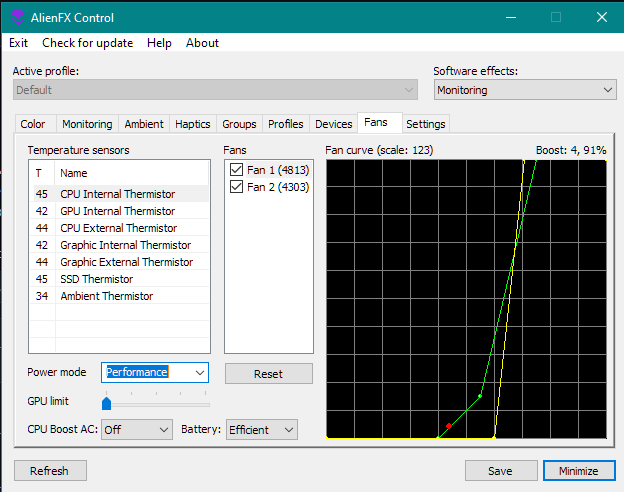
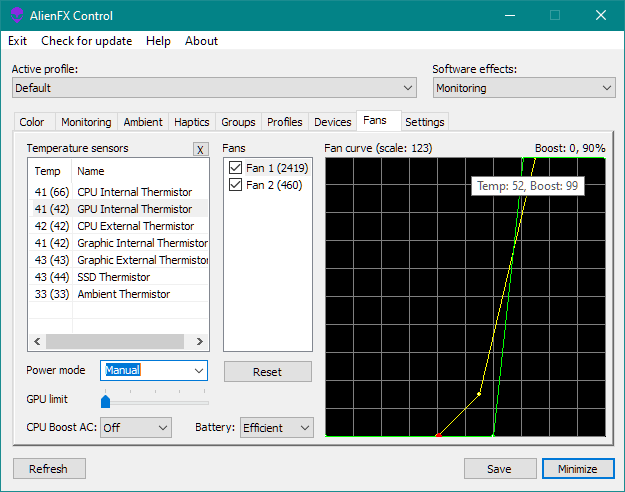
"Maximal temperatures" feature

Changed region(s): [[0.0, 0.0, 1.0, 1.0]]

diff --git a/alienfan-tools/alienfan-gui/alienfan-gui.cpp b/alienfan-tools/alienfan-gui/alienfan-gui.cpp
@@ -39,7 +39,7 @@ UINT newTaskBar = RegisterWindowMessage(TEXT("TaskbarCreated"));
 HWND toolTip = NULL;
 HWND fanWindow = NULL;
 
-int pLid = -1;
+int pLid = -1, maxBoost = 100;
 
 GUID* sch_guid, perfset;
 
@@ -71,11 +71,14 @@ int APIENTRY wWinMain(_In_ HINSTANCE hInstance,
 
     if (acpi->IsActivated() && acpi->Probe()) {
         fan_conf->SetBoosts(acpi);
+        
         // Perform application initialization:
         HWND mDlg;
         if (!(mDlg = InitInstance(hInstance, fan_conf->startMinimized ? SW_HIDE : SW_NORMAL ))) {
             return FALSE;
         }
+
+        mon->dlg = mDlg;
 
         //power mode hotkeys
         for (int i = 0; i < 6; i++)
@@ -86,8 +89,6 @@ int APIENTRY wWinMain(_In_ HINSTANCE hInstance,
 
         //if (fan_conf->lastProf->GPUPower >= 0)
         //    acpi->SetGPU(fan_conf->lastProf->GPUPower);
-
-        mon = new MonHelper(mDlg, fanWindow, fan_conf, acpi);
 
         HACCEL hAccelTable = LoadAccelerators(hInstance, MAKEINTRESOURCE(IDC_MAIN_ACC));
 
@@ -244,7 +245,7 @@ void DrawFan(int oper = 0, int xx=-1, int yy=-1)
             mark.x = acpi->GetTempValue(fan_conf->lastSelectedSensor) * (clirect.right - clirect.left) / 100 + clirect.left;
             mark.y = (100 - acpi->GetFanValue(fan_conf->lastSelectedFan)) * (clirect.bottom - clirect.top) / 100 + clirect.top;
             Ellipse(hdc, mark.x - 3, mark.y - 3, mark.x + 3, mark.y + 3);
-            string rpmText = "Fan curve (boost: " + to_string(acpi->GetFanValue(fan_conf->lastSelectedFan)) + 
+            string rpmText = "Fan curve (scale: " + to_string(maxBoost) + ", boost: " + to_string(acpi->GetFanValue(fan_conf->lastSelectedFan)) + 
                 ", " + to_string((percent = acpi->GetFanPercent(fan_conf->lastSelectedFan)) > 100 ? 0 : percent < 0 ? 0 : percent) +
                 "%)";
             SetWindowText(fanWindow, rpmText.c_str());
@@ -285,6 +286,7 @@ void ReloadFanView(HWND hDlg, int cID) {
         if (i == cID) {
             lItem.mask |= LVIF_STATE;
             lItem.state = LVIS_SELECTED;
+            maxBoost = fan_conf->boosts[fan_conf->lastSelectedFan].maxBoost;
             DrawFan();
         }
         ListView_InsertItem(list, &lItem);
@@ -322,19 +324,21 @@ void ReloadTempView(HWND hDlg, int cID) {
     HWND list = GetDlgItem(hDlg, IDC_TEMP_LIST);
     ListView_DeleteAllItems(list);
     ListView_SetExtendedListViewStyle(list, LVS_EX_GRIDLINES | LVS_EX_FULLROWSELECT);
-    LVCOLUMNA lCol;
-    lCol.mask = LVCF_WIDTH | LVCF_TEXT | LVCF_SUBITEM;
-    lCol.cx = 100;
-    lCol.iSubItem = 0;
-    lCol.pszText = (LPSTR) "T";
-    //ListView_DeleteColumn(list, 0);
-    ListView_InsertColumn(list, 0, &lCol);
-    lCol.pszText = (LPSTR) "Name";
-    lCol.iSubItem = 1;
-    ListView_InsertColumn(list, 1, &lCol);
+    if (!ListView_GetColumnWidth(list, 1)) {
+        LVCOLUMNA lCol;
+        lCol.mask = LVCF_WIDTH | LVCF_TEXT | LVCF_SUBITEM;
+        lCol.cx = 100;
+        lCol.iSubItem = 0;
+        lCol.pszText = (LPSTR)"Temp";
+        //ListView_DeleteColumn(list, 0);
+        ListView_InsertColumn(list, 0, &lCol);
+        lCol.pszText = (LPSTR)"Name";
+        lCol.iSubItem = 1;
+        ListView_InsertColumn(list, 1, &lCol);
+    }
     for (int i = 0; i < acpi->HowManySensors(); i++) {
         LVITEMA lItem;
-        string name = to_string(acpi->GetTempValue(i));
+        string name = to_string(acpi->GetTempValue(i)) + " (" + to_string(mon->maxTemps[i]) + ")";
         lItem.mask = LVIF_TEXT | LVIF_PARAM;
         lItem.iItem = i;
         lItem.iImage = 0;
@@ -448,10 +452,6 @@ LRESULT CALLBACK WndProc(HWND hDlg, UINT message, WPARAM wParam, LPARAM lParam)
         ComboBox_SetCurSel(boost_ac, acMode);
         ComboBox_SetCurSel(boost_dc, dcMode);
 
-        ReloadPowerList(hDlg, fan_conf->lastProf->powerStage);
-        ReloadTempView(hDlg, fan_conf->lastSelectedSensor);
-        ReloadFanView(hDlg, fan_conf->lastSelectedFan);
-
         // So open fan control window...
         RECT cDlg;
         GetWindowRect(hDlg, &cDlg);
@@ -466,6 +466,12 @@ LRESULT CALLBACK WndProc(HWND hDlg, UINT message, WPARAM wParam, LPARAM lParam)
         } else {
             ShowWindow(fanWindow, SW_SHOWNA);
         }
+
+        mon = new MonHelper(hDlg, fanWindow, fan_conf, acpi);
+
+        ReloadPowerList(hDlg, fan_conf->lastProf->powerStage);
+        ReloadTempView(hDlg, fan_conf->lastSelectedSensor);
+        ReloadFanView(hDlg, fan_conf->lastSelectedFan);
 
         CheckMenuItem(GetMenu(hDlg), IDM_SETTINGS_STARTWITHWINDOWS, fan_conf->startWithWindows ? MF_CHECKED : MF_UNCHECKED);
         CheckMenuItem(GetMenu(hDlg), IDM_SETTINGS_STARTMINIMIZED, fan_conf->startMinimized ? MF_CHECKED : MF_UNCHECKED);
@@ -567,6 +573,12 @@ LRESULT CALLBACK WndProc(HWND hDlg, UINT message, WPARAM wParam, LPARAM lParam)
                 }
             }
         } break;
+        case IDC_MAX_RESET:
+        {
+            for (int i = 0; i < acpi->HowManySensors(); i++)
+                mon->maxTemps[i] = acpi->GetTempValue(i);
+            ReloadTempView(hDlg, fan_conf->lastSelectedSensor);
+        } break;
         default:
             return DefWindowProc(hDlg, message, wParam, lParam);
         }
@@ -629,6 +641,7 @@ LRESULT CALLBACK WndProc(HWND hDlg, UINT message, WPARAM wParam, LPARAM lParam)
                     if (lPoint->iItem != -1) {
                         // Select other fan....
                         fan_conf->lastSelectedFan = lPoint->iItem;
+                        maxBoost = fan_conf->boosts[fan_conf->lastSelectedFan].maxBoost;
                         // Redraw fans
                         DrawFan();
                     }

diff --git a/alienfx-gui/FanDialog.cpp b/alienfx-gui/FanDialog.cpp
@@ -181,18 +181,20 @@ void ReloadTempView(HWND hDlg, int cID) {
     HWND list = GetDlgItem(hDlg, IDC_TEMP_LIST);
     ListView_DeleteAllItems(list);
     ListView_SetExtendedListViewStyle(list, LVS_EX_GRIDLINES | LVS_EX_FULLROWSELECT);
-    LVCOLUMNA lCol;
-    lCol.mask = LVCF_WIDTH | LVCF_TEXT | LVCF_SUBITEM;
-    lCol.cx = 100;
-    lCol.iSubItem = 0;
-    lCol.pszText = (LPSTR) "T";
-    ListView_InsertColumn(list, 0, &lCol);
-    lCol.pszText = (LPSTR) "Name";
-    lCol.iSubItem = 1;
-    ListView_InsertColumn(list, 1, &lCol);
+    if (!ListView_GetColumnWidth(list, 1)) {
+        LVCOLUMNA lCol;
+        lCol.mask = LVCF_WIDTH | LVCF_TEXT | LVCF_SUBITEM;
+        lCol.cx = 100;
+        lCol.iSubItem = 0;
+        lCol.pszText = (LPSTR)"Temp";
+        ListView_InsertColumn(list, 0, &lCol);
+        lCol.pszText = (LPSTR)"Name";
+        lCol.iSubItem = 1;
+        ListView_InsertColumn(list, 1, &lCol);
+    }
     for (int i = 0; i < acpi->HowManySensors(); i++) {
         LVITEMA lItem;
-        string name = to_string(acpi->GetTempValue(i));
+        string name = to_string(acpi->GetTempValue(i)) + " (" + to_string(eve->mon->maxTemps[i]) + ")";
         lItem.mask = LVIF_TEXT | LVIF_PARAM;
         lItem.iItem = i;
         lItem.iImage = 0;
@@ -337,6 +339,12 @@ BOOL CALLBACK TabFanDialog(HWND hDlg, UINT message, WPARAM wParam, LPARAM lParam
                     DrawFan();
                 }
             }
+        } break;
+        case IDC_MAX_RESET:
+        {
+            for (int i = 0; i < acpi->HowManySensors(); i++)
+                eve->mon->maxTemps[i] = acpi->GetTempValue(i);
+            ReloadTempView(hDlg, conf->fan_conf->lastSelectedSensor);
         } break;
         }
     } break;

diff --git a/alienfan-tools/alienfan-gui/MonHelper.cpp b/alienfan-tools/alienfan-gui/MonHelper.cpp
@@ -13,6 +13,12 @@ MonHelper::MonHelper(HWND cDlg, HWND fanDlg, ConfigHelper* config, AlienFan_SDK:
 	if (oldPower != conf->lastProf->powerStage)
 		acpi->SetPower(conf->lastProf->powerStage);
 	acpi->SetGPU(conf->lastProf->GPUPower);
+
+	maxTemps.resize(acpi->HowManySensors());
+	for (int i = 0; i < acpi->HowManySensors(); i++) {
+		maxTemps[i] = acpi->GetTempValue(i);
+	}
+
 	stopEvent = CreateEvent(NULL, false, false, NULL);
 	Start();
 }
@@ -66,11 +72,13 @@ DWORD WINAPI CMonProc(LPVOID param) {
 		// temps..
 		for (int i = 0; i < src->acpi->HowManySensors(); i++) {
 			int sValue = src->acpi->GetTempValue(i);
+			if (sValue > src->maxTemps[i])
+				src->maxTemps[i] = sValue;
 			if (sValue != src->senValues[i]) {
 				src->senValues[i] = sValue;
 				needUpdate = true;
 				if (visible && tempList) {
-					string name = to_string(sValue);
+					string name = to_string(sValue) + " (" + to_string(src->maxTemps[i]) + ")";
 					ListView_SetItemText(tempList, i, 0, (LPSTR) name.c_str());
 				}
 			}

diff --git a/alienfx-gui/FXHelper.cpp b/alienfx-gui/FXHelper.cpp
@@ -564,11 +564,11 @@ DWORD WINAPI CLightsProc(LPVOID param) {
 					for (auto devQ=devs_query.begin(); devQ != devs_query.end(); devQ++) {
 						AlienFX_SDK::afx_device* dev = src->LocateDev(devQ->devID);
 						if (dev && (current.did == (-1) || devQ->devID == current.did)) {
-#ifdef _DEBUG
-							char buff[2048];
-							sprintf_s(buff, 2047, "Starting update for %d, (%d lights, %d in query)...\n", devQ->devID, devQ->dev_query.size(), src->lightQuery.size());
-							OutputDebugString(buff);
-#endif
+//#ifdef _DEBUG
+//							char buff[2048];
+//							sprintf_s(buff, 2047, "Starting update for %d, (%d lights, %d in query)...\n", devQ->devID, devQ->dev_query.size(), src->lightQuery.size());
+//							OutputDebugString(buff);
+//#endif
 							if (dev->dev->GetVersion() == 5 && (src->config->activeProfile->flags & PROF_GLOBAL_EFFECTS)) {
 								DebugPrint("V5 global effect active!\n");
 								src->UpdateGlobalEffect(dev->dev);

diff --git a/alienfan-tools/alienfan-gui/resource.h b/alienfan-tools/alienfan-gui/resource.h
@@ -20,6 +20,8 @@
 #define IDC_SYSLINK_HOMEPAGE            1010
 #define IDC_SLIDER_GPU                  1013
 #define IDC_STATIC_BOOST                1014
+#define IDC_BUTTON1                     1016
+#define IDC_MAX_RESET                   1016
 #define IDC_AC_BOOST                    1124
 #define IDC_DC_BOOST                    1125
 #define IDM_SETTINGS_STARTWITHWINDOWS   32776
@@ -33,7 +35,7 @@
 #define _APS_NO_MFC                     1
 #define _APS_NEXT_RESOURCE_VALUE        134
 #define _APS_NEXT_COMMAND_VALUE         32780
-#define _APS_NEXT_CONTROL_VALUE         1016
+#define _APS_NEXT_CONTROL_VALUE         1017
 #define _APS_NEXT_SYMED_VALUE           110
 #endif
 #endif

diff --git a/alienfx-gui/resource.h b/alienfx-gui/resource.h
@@ -96,6 +96,7 @@
 #define IDC_BUTTON_LPC                  1015
 #define IDC_STARTW                      1016
 #define IDC_BUTTON_HPC                  1016
+#define IDC_MAX_RESET                   1016
 #define IDC_STARTM                      1017
 #define IDC_BUTTON_REMOVE               1017
 #define IDC_SLIDER_HICUT                1018

diff --git a/alienfan-tools/alienfan-gui/MonHelper.h b/alienfan-tools/alienfan-gui/MonHelper.h
@@ -12,7 +12,7 @@ public:
 	HANDLE stopEvent = 0;
 	short oldPower = 0;
 	AlienFan_SDK::Control* acpi;
-	vector<int> senValues, fanValues, boostValues, boostSets;
+	vector<int> senValues, fanValues, boostValues, boostSets, maxTemps;
 
 	MonHelper(HWND, HWND, ConfigHelper*, AlienFan_SDK::Control*);
 	~MonHelper();

diff --git a/Doc/alienfx-gui.md b/Doc/alienfx-gui.md
@@ -165,7 +165,7 @@ Use "Test White" button to switch testing color for all lights to white for resu
 `"Fans"` tab is UI for control system fans and temperature sensors.  
 
 First, take a look at "Power mode" dropdown - it can control system pre-defined power modes. For manual fan control switch it to "Manual". You can edit mode name by selecting it and type new name.  
-"Temperature sensors" list present all hardware sensors found at your motherboard (some SSD sensors can absent into this list), and their current temperature values.
+"Temperature sensors" list present all hardware sensors found at your motherboard (some SSD sensors can absent into this list), and their current and maximal (press "x" button at list head to reset it to current values) temperature values.
 "Fans" list presents all fans found into the system and their current RPMs.  
 "GPU limit" slider define top maximal GPU board power limit shift. 0 (left) is no limit, 4 (right) - maximal limit. This feature only supported at some notebooks, and real limit can vary. You can use this slider to keep more power at CPU or extend battery life.  
 "CPU Boost" dropdowns can be used to select active Windows Power Plan boost mode (separately for AC and battery power). This settings is extremely useful for Ryzen CPU, but even for Intel it provide a little performance boost (+3% at "Aggressive" for my gear).  

diff --git a/Doc/alienfan-gui.md b/Doc/alienfan-gui.md
@@ -3,7 +3,7 @@
 ![alienfan-gui](/Doc/img/alienfan.png?raw=true)
 
 GUI application for fan control.  
-Then you start it, you will see 2 main windows - Temperaturs (with current readings) and Fans (with checkboxes and current RPM), as well as separate Fan curve (graph).  
+Then you start it, you will see 2 main windows - Temperaturs (with current and maximal (press "x" button at list head to reset it to current values) readings) and Fans (with checkboxes and current RPM), as well as separate Fan curve (graph).  
 Also, "Power mode" dropdown avaliable to select global power mode. Power modes are system-specific, so exact power limit valuses depends of you gear, you can use third-party tools to check it. You can edit mode name by selecting it and type new name.  
 "GPU limit" slider define top maximal GPU power limit shift for some models. 0 (left) is no limit, 4 (right) - maximal limit. This feature only supported at some notebooks, and real limit can vary. You can use this value to keep more power at CPU or extend battery life.  
 "CPU Boost" dropdowns can be used to select active Windows Power Plan boost mode (separately for AC and battery power). This settings is extremely useful for Ryzen CPU, but even for Intel it provide a little performance boost (+3% at "Aggressive" for my gear).  
